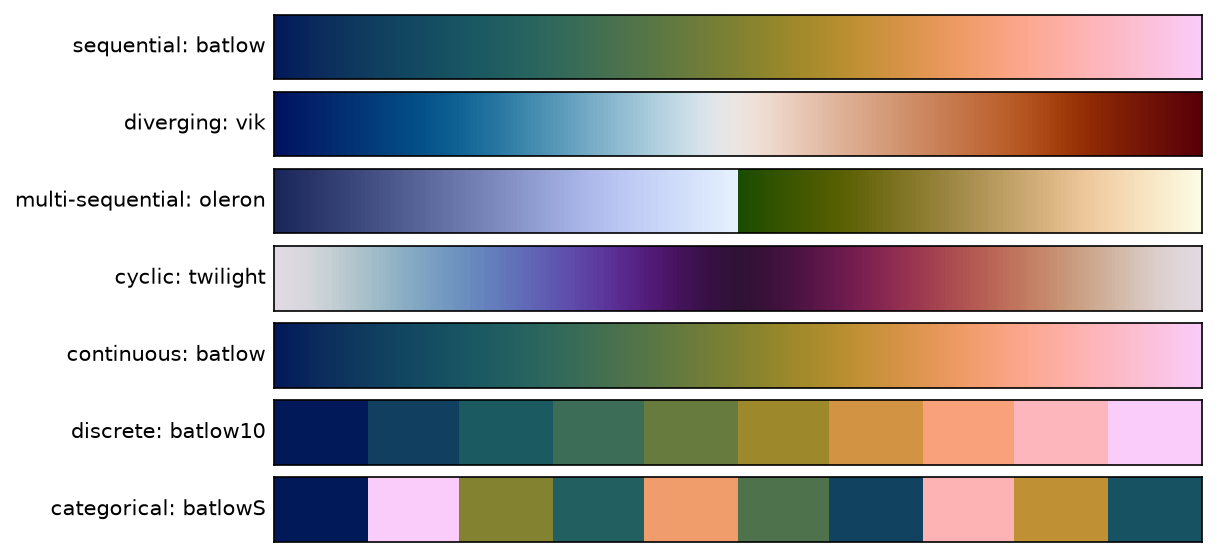
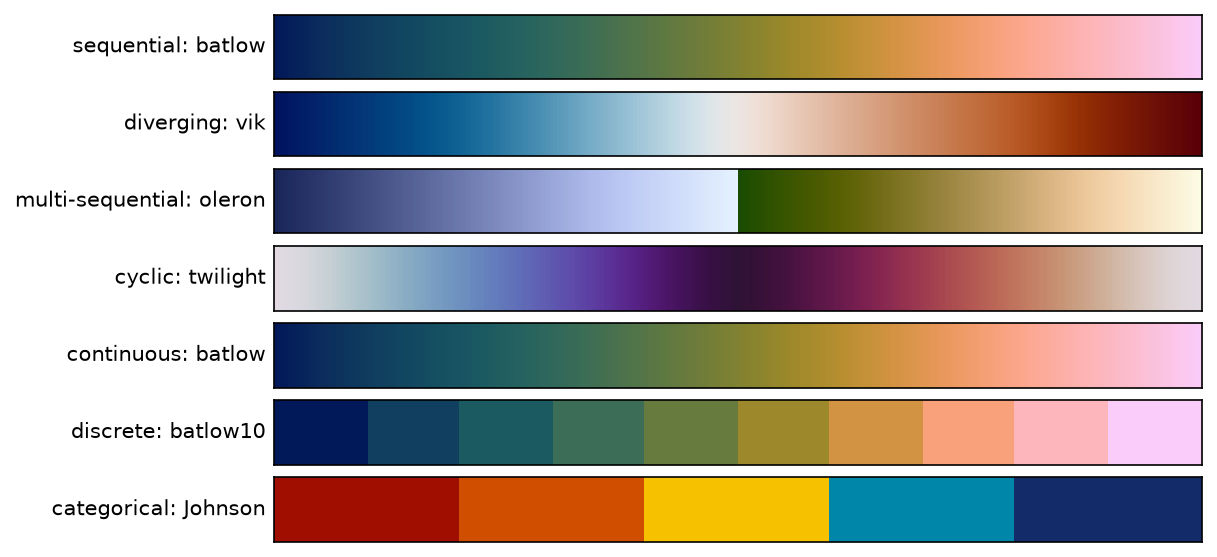
visualization: the Color page and the Color Maps notebook show Johnson as the categorical color map

Changed region(s): [[0.0312, 0.8546, 0.9992, 0.9767]]

diff --git a/docs/topics/visualization/color.md b/docs/topics/visualization/color.md
@@ -162,7 +162,7 @@ The type of a color map says how many colors it has.
 The next code draws one example of each.
 It uses `gradient` from the code above.
 Scicolor has no cyclic color map, so the code takes `twilight` from Matplotlib.
-The categorical color map `batlowS` has 100 colors, and the code shows the first ten.
+The categorical color map `Johnson` has five colors.
 
 ```python
 examples = {
@@ -172,7 +172,7 @@ examples = {
     "cyclic: twilight": matplotlib.colormaps["twilight"],
     "continuous: batlow": scicolor.get_cmap("batlow"),
     "discrete: batlow10": scicolor.get_cmap("batlow10"),
-    "categorical: batlowS": matplotlib.colors.ListedColormap(scicolor.get_cmap("batlowS").colors[:10]),
+    "categorical: Johnson": scicolor.get_cmap("Johnson"),
 }
 
 fig, axes = plt.subplots(len(examples), 1, figsize=(8, 3.6), layout="constrained")
@@ -184,7 +184,7 @@ for ax, (label, cmap) in zip(axes, examples.items()):
 plt.show()
 ```
 
-![Seven color strips, each with a label. Sequential, batlow: from dark blue to light pink. Diverging, vik: from dark blue through white to dark red. Multi-sequential, oleron: shades of blue on the left half, and green to light brown on the right half, with a break in the middle. Cyclic, twilight: light at both ends and dark purple in the middle. Continuous, batlow: a smooth strip. Discrete, batlow10: ten blocks of color in the order of batlow. Categorical, batlowS: ten blocks of color in a mixed order.](figures/color-map-classes.png){ width="680" }
+![Seven color strips, each with a label. Sequential, batlow: from dark blue to light pink. Diverging, vik: from dark blue through white to dark red. Multi-sequential, oleron: shades of blue on the left half, and green to light brown on the right half, with a break in the middle. Cyclic, twilight: light at both ends and dark purple in the middle. Continuous, batlow: a smooth strip. Discrete, batlow10: ten blocks of color in the order of batlow. Categorical, Johnson: five blocks of color, which are dark red, orange, yellow, teal, and dark blue.](figures/color-map-classes.png){ width="680" }
 
 The first four strips show the four classes, and the last three strips show the three types.
 
@@ -192,13 +192,13 @@ The first four strips show the four classes, and the last three strips show the 
 - `oleron` has a break in the middle: shades of blue on one side, and green and brown on the other side.
 - `twilight` starts and ends with the same light color.
 - `batlow10` has ten colors of `batlow` in the same order.
-- The colors of `batlowS` come from `batlow` too, in an order that puts very different colors next to each other.
+- `Johnson` has five colors that differ strongly from each other: dark red, orange, yellow, teal, and dark blue.
 
 ## Which class fits your data
 
 | Your data | Class or type | Example |
 |-----------|---------------|---------|
-| Groups with no order, such as platforms | Categorical | `batlowS` |
+| Groups with no order, such as platforms | Categorical | `Johnson` |
 | Values from low to high, such as a count or a score | Sequential | `batlow` |
 | Values in two directions from a central value, such as political leaning from left to right | Diverging | `vik` |
 | Values on a circle, such as the hour of the day | Cyclic | `twilight` of Matplotlib |
